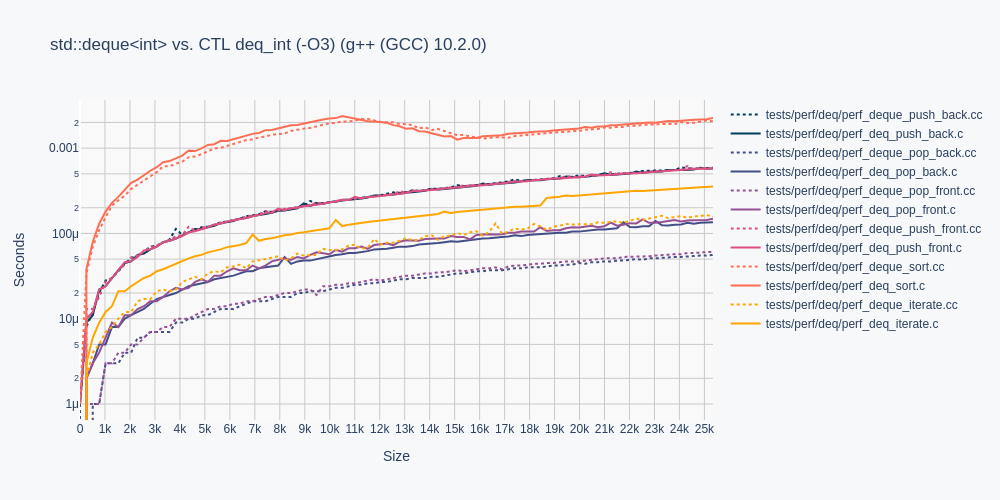
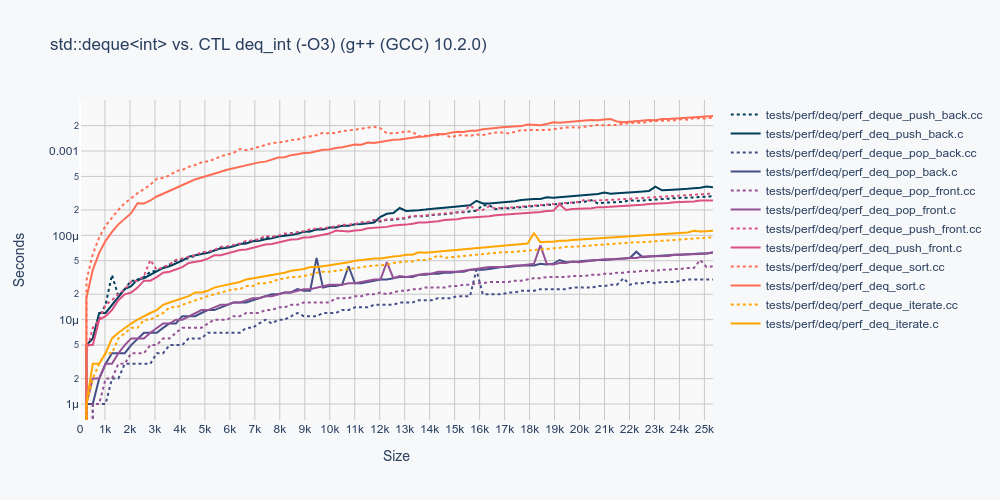
new images, ust update

diff --git a/ctl/ust.h b/ctl/ust.h
@@ -29,6 +29,7 @@ typedef struct A
     size_t size;
     size_t bucket_count;
     float max_load_factor;
+    int saturated;
 }
 A;
 
@@ -180,24 +181,29 @@ JOIN(A, swap)(A* self, A* other)
     *other = temp;
 }
 
-// TODO:
-// primes[] obtained experimentally - is there a quicker way to get more primes
-// other than checking bucket_count() on std::unorderd_set::insert()?
+static const size_t
+JOIN(A, primes)[] = {
+    13, 29, 59, 127, 257, 541, 1109, 2357, 5087, 10273, 20753,
+    42043, 85229, 172933, 351061, 712697, 1447153, 2938679,
+    5967347, 12117689, 24607243, 49969847, 101473717
+};
+
+static const size_t
+JOIN(A, primes_size) = len(JOIN(A, primes));
+
+static const size_t
+JOIN(A, last_prime) = JOIN(A, primes)[JOIN(A, primes_size) - 1];
+
 static inline int
 JOIN(A, __next_prime)(size_t n)
 {
-    const size_t primes[] = {
-        13, 29, 59, 127, 257, 541, 1109, 2357, 5087, 10273, 20753,
-        42043, 85229, 172933, 351061, 712697, 1447153, 2938679,
-        5967347, 12117689, 24607243, 49969847, 101473717
-    };
-    for(size_t i = 0; i < len(primes); i++)
+    for(size_t i = 0; i < JOIN(A, primes_size); i++)
     {
-        size_t p = primes[i];
+        size_t p = JOIN(A, primes)[i];
         if(n < p)
             return p;
     }
-    return primes[n - 1];
+    return JOIN(A, last_prime);
 }
 
 static inline B*
@@ -244,6 +250,8 @@ static inline void
 JOIN(A, reserve)(A* self, size_t desired_count)
 {
     self->bucket_count = JOIN(A, __next_prime)(desired_count);
+    if(self->bucket_count == JOIN(A, last_prime))
+        self->saturated = 1;
     free(self->bucket);
     self->bucket = (B**) calloc(self->bucket_count, sizeof(B*));
 }
@@ -269,16 +277,19 @@ JOIN(A, init)(size_t (*_hash)(T*), int (*_equal)(T*, T*))
 static inline void
 JOIN(A, rehash)(A* self, size_t desired_count)
 {
-    A rehashed = JOIN(A, init)(self->hash, self->equal);
-    JOIN(A, reserve)(&rehashed, desired_count);
-    foreach(A, self, it)
+    if(!self->saturated)
     {
-        B** bucket = JOIN(A, bucket)(&rehashed, it.node->value);
-        *bucket = JOIN(B, push)(*bucket, it.node);
+        A rehashed = JOIN(A, init)(self->hash, self->equal);
+        JOIN(A, reserve)(&rehashed, desired_count);
+        foreach(A, self, it)
+        {
+            B** bucket = JOIN(A, bucket)(&rehashed, it.node->value);
+            *bucket = JOIN(B, push)(*bucket, it.node);
+        }
+        rehashed.size = self->size;
+        free(self->bucket);
+        *self = rehashed;
     }
-    rehashed.size = self->size;
-    free(self->bucket);
-    *self = rehashed;
 }
 
 static inline void
@@ -313,10 +324,7 @@ JOIN(A, insert)(A* self, T value)
         *bucket = JOIN(B, push)(*bucket, JOIN(B, init)(value));
         self->size += 1;
         if(JOIN(A, load_factor)(self) > self->max_load_factor)
-        {
-            size_t bucket_count = 2 * self->bucket_count;
-            JOIN(A, rehash)(self, bucket_count);
-        }
+            JOIN(A, rehash)(self, 2 * self->bucket_count);
     }
 }
 
@@ -331,39 +339,29 @@ JOIN(A, erase)(A* self, T value)
 {
     B** bucket = JOIN(A, bucket)(self, value);
     B* prev = NULL;
-    for(B* n = *bucket; n; n = n->next)
+    B* n = *bucket;
+    while(n)
     {
-        if(self->equal(&value, &n->value))
+        B* next = n->next;
+        if(self->equal(&n->value, &value))
         {
-            B* next = n->next;
             JOIN(A, free_node)(self, n);
             if(prev)
                 prev->next = next;
-            break;
+            else
+                *bucket = next;
         }
         prev = n;
+        n = next;
     }
 }
 
 static inline void
 JOIN(A, remove_if)(A* self, int (*_match)(T*))
 {
-    for(size_t i = 0; i < self->bucket_count; i++)
-    {
-        B** bucket = &self->bucket[i];
-        B* prev = NULL;
-        for(B* n = *bucket; n; n = n->next)
-        {
-            if(_match(&n->value))
-            {
-                B* next = n->next;
-                JOIN(A, free_node)(self, n);
-                if(prev)
-                    prev->next = next;
-            }
-            prev = n;
-        }
-    }
+    foreach(A, self, it)
+        if(_match(it.ref))
+            JOIN(A, free_node)(self, it.node);
 }
 
 static inline A

diff --git a/tests/func/test_ust.cc b/tests/func/test_ust.cc
@@ -91,17 +91,15 @@ main(void)
         {
             case TEST_ERASE:
             {
-                // BROKEN
-                //const int temp = 42;
-                //ust_digi_insert(&a, digi_init(temp));
-                //b.insert(DIGI(temp));
-                //digi z = digi_init(temp);
-                //ust_digi_erase(&a, z);
-                //b.erase(DIGI(temp));
-                //digi_free(&z);
-                //CHECK(a, b);
-                //puts("ERASE");
-                //break;
+                const int temp = 42;
+                ust_digi_insert(&a, digi_init(temp));
+                b.insert(DIGI(temp));
+                digi z = digi_init(temp);
+                ust_digi_erase(&a, z);
+                b.erase(DIGI(temp));
+                digi_free(&z);
+                CHECK(a, b);
+                break;
             }
             case TEST_INSERT:
             {

diff --git a/README.md b/README.md
@@ -115,7 +115,10 @@ To generate performance graphs, run:
 
 ```shell
 sh gen_images.sh
-# Graphing requires python3 and the Plotly family of libraries via pip3.
+# Graphing requires python3 and the Plotly family of libraries via pip.
+pip install plotly
+pip install psutil
+pip install kaleido
 ```
 
 To do all of the above in one step, run:
